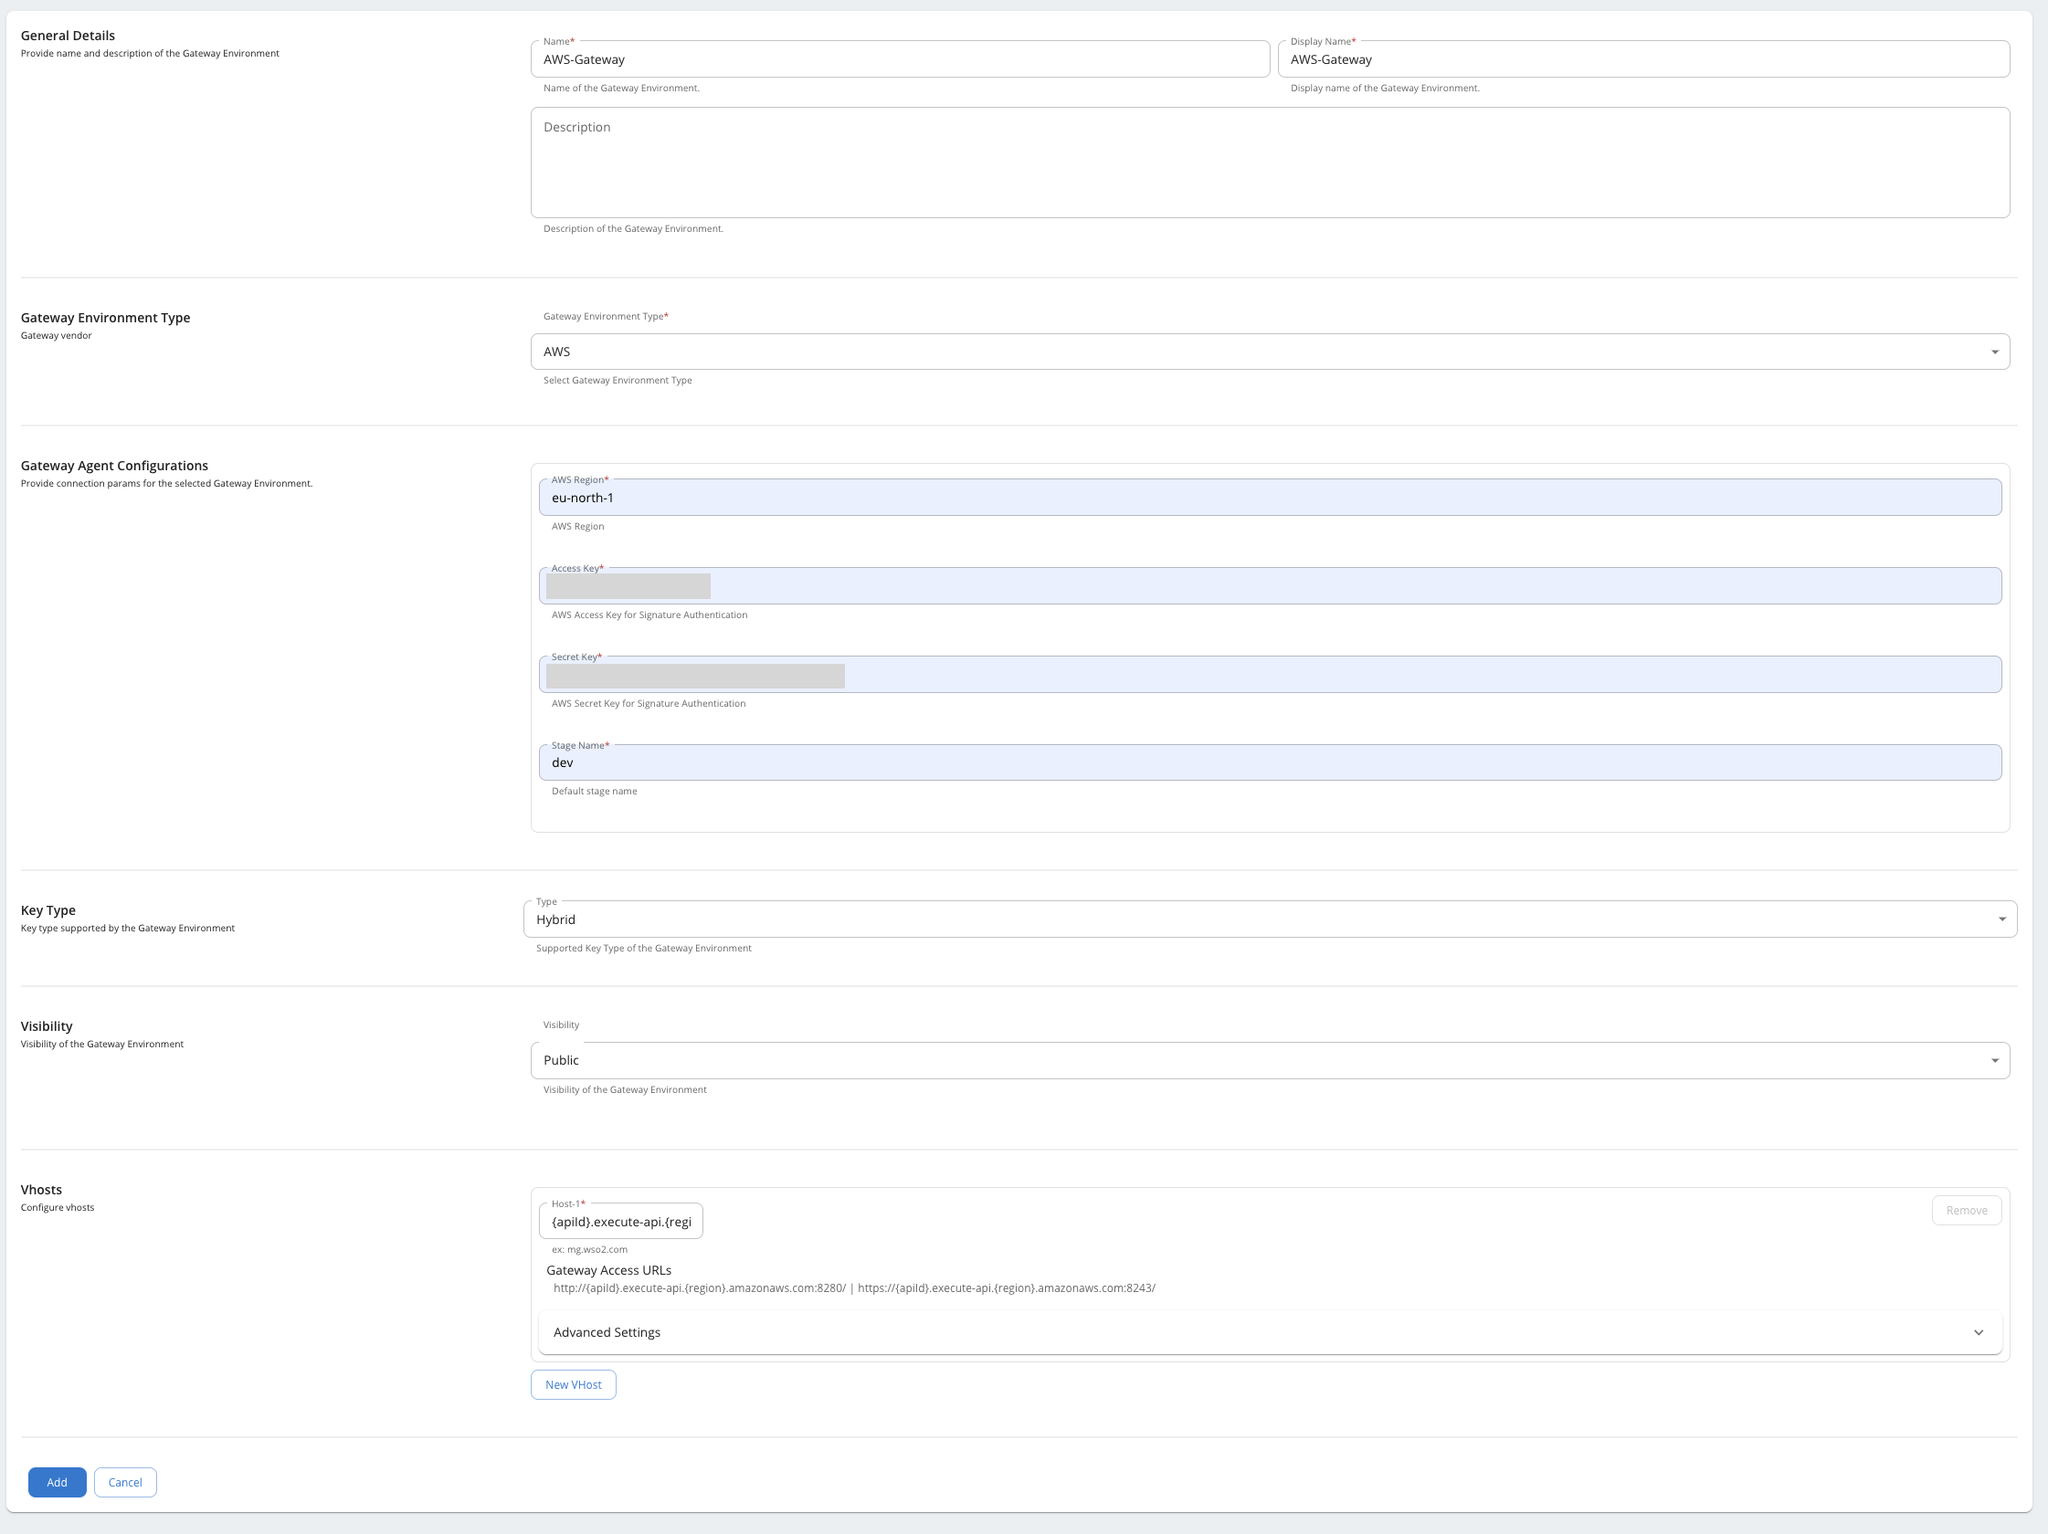
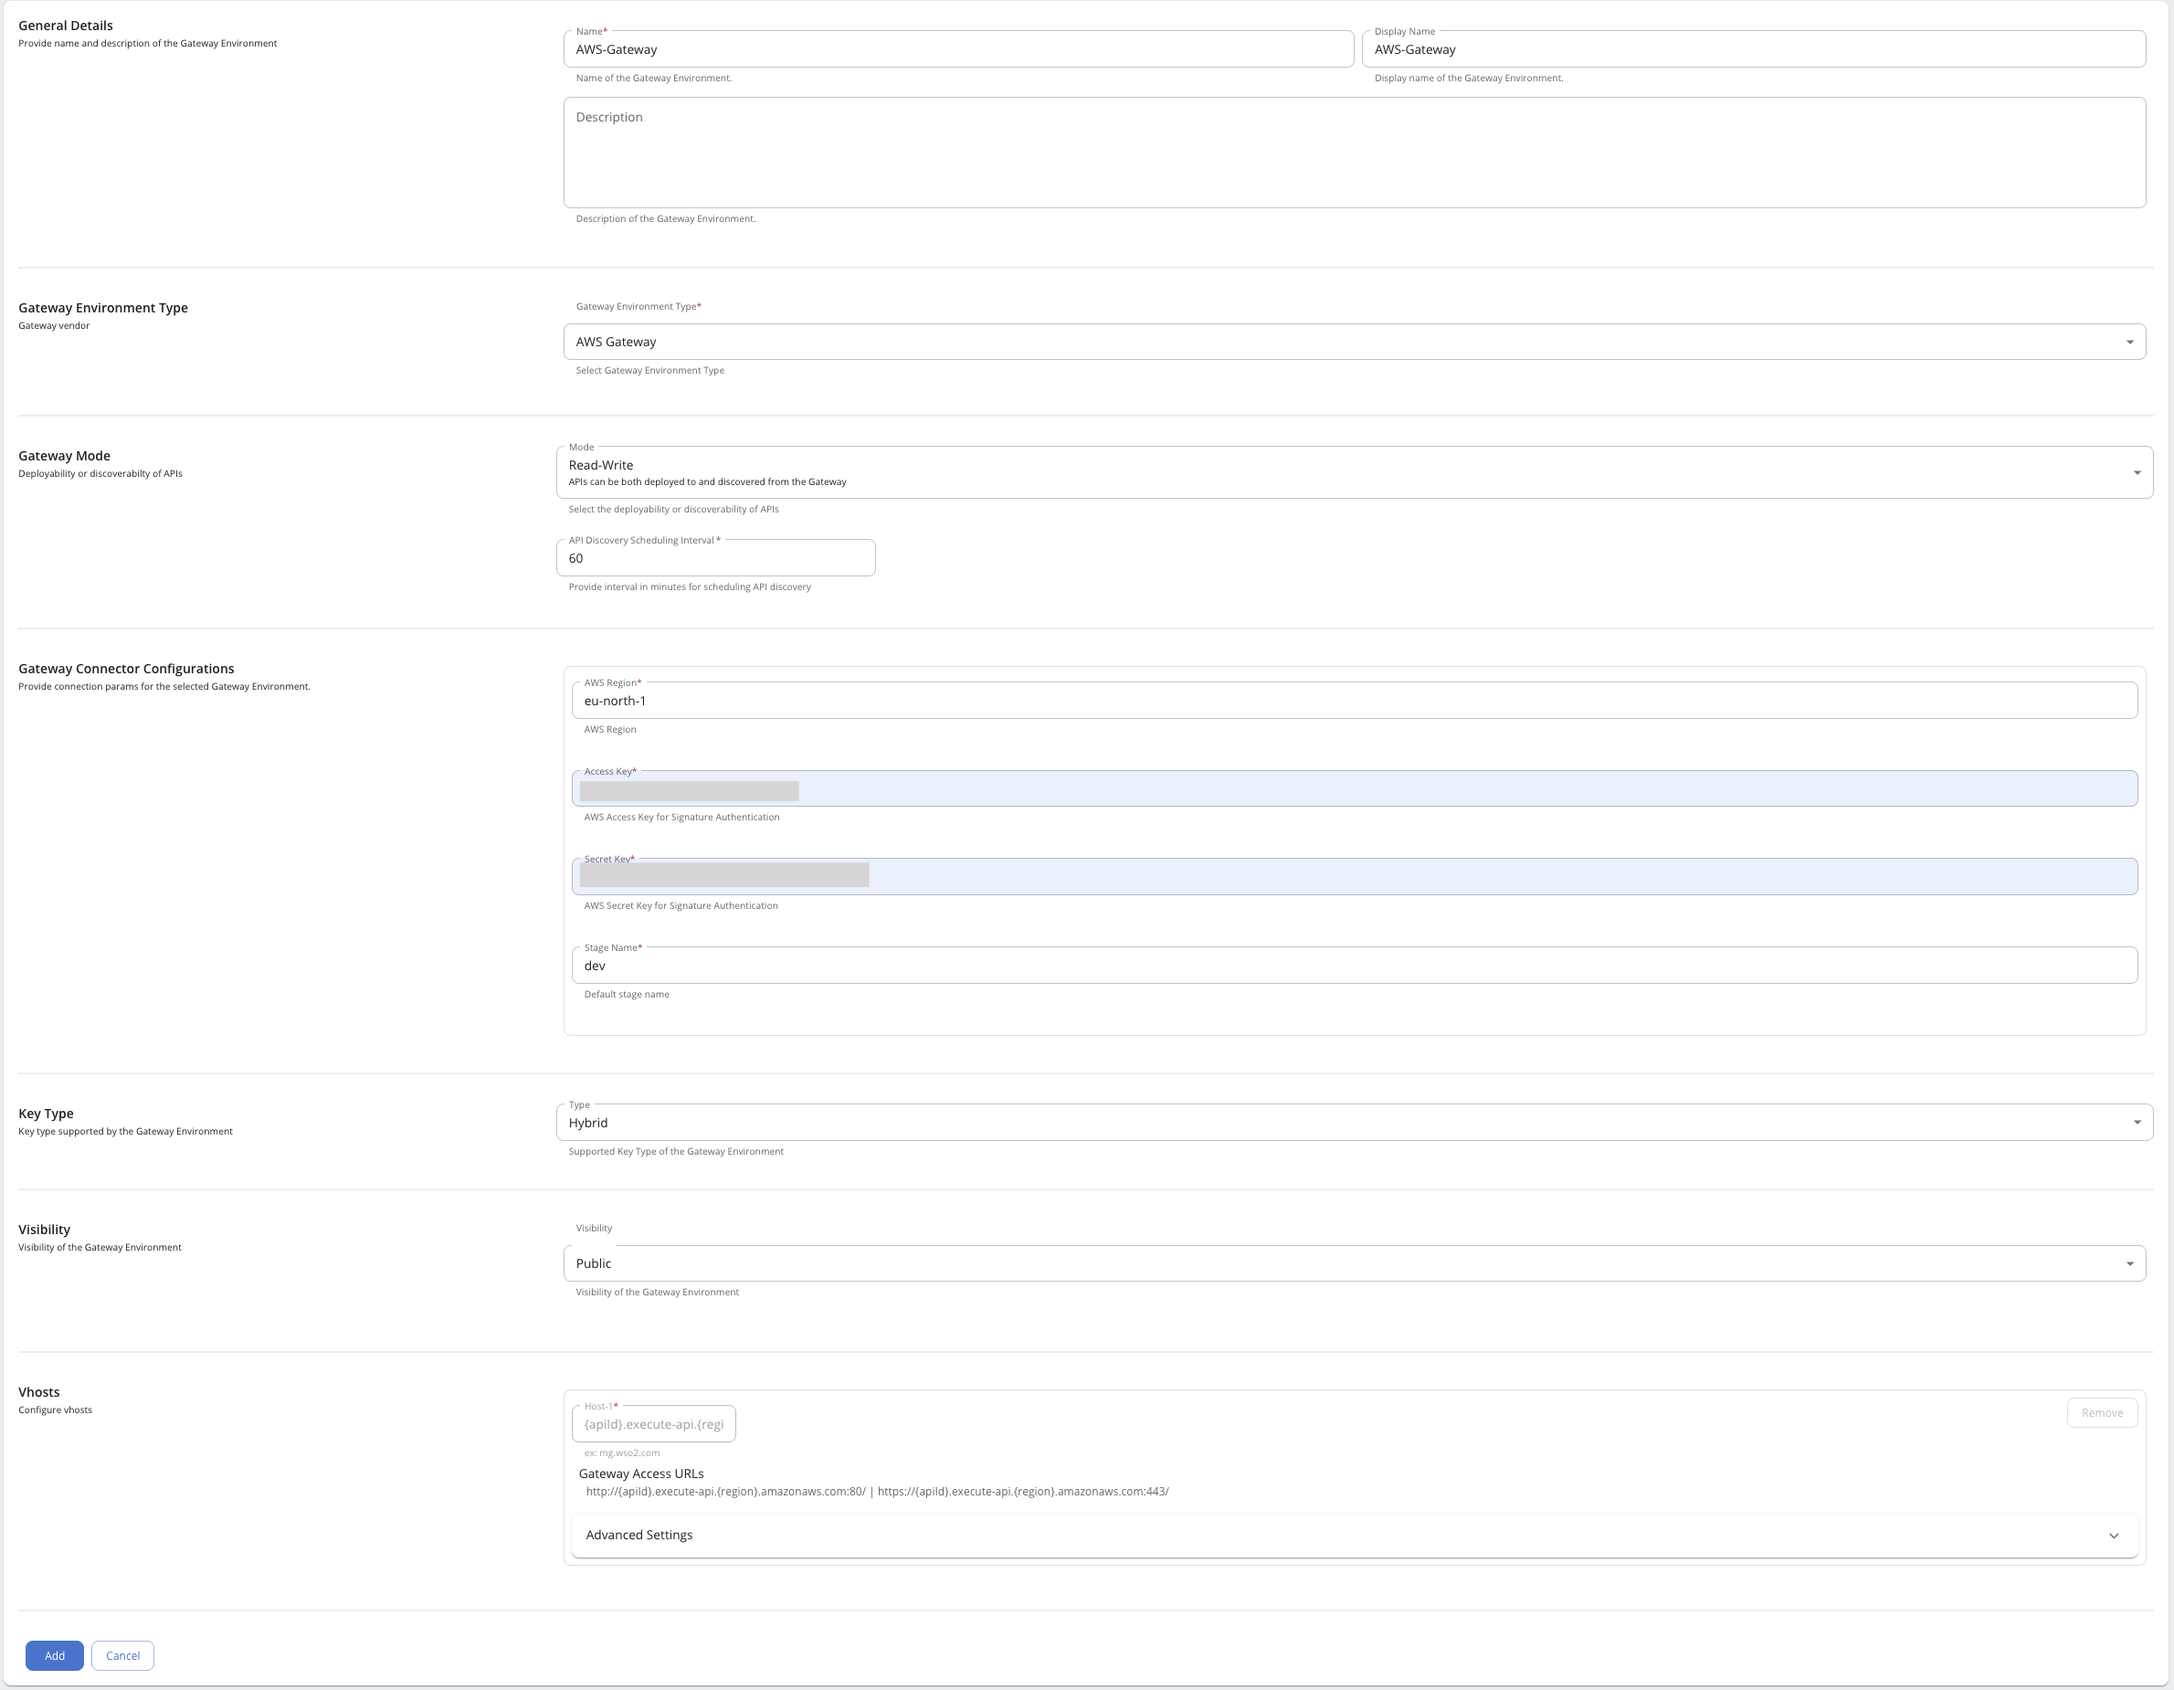
Modify AWS gateway discovery docs

diff --git a/en/docs/manage-apis/deploy-and-publish/federated-gateways/aws/discover-apis-on-aws-api-gateway.md b/en/docs/manage-apis/deploy-and-publish/federated-gateways/aws/discover-apis-on-aws-api-gateway.md
@@ -21,8 +21,8 @@ Follow the instructions given below to configure AWS API Gateway as a Federated 
 3. Create an IAM user in AWS with `AmazonAPIGatewayAdministrator` permission.
 4. Obtain an Access Key and Secret Access Key for the IAM user created in the previous step. Select **Third-party service** as the use case.
 
-   !!!note
-   Note that it is not recommended to enter root credentials of the AWS account. Instead, create a new IAM user with the required permissions and use the credentials of the IAM user. For more information see [Best practices for managing AWS access keys](https://docs.aws.amazon.com/general/latest/gr/aws-access-keys-best-practices.html).
+    !!!note
+        Note that it is not recommended to enter root credentials of the AWS account. Instead, create a new IAM user with the required permissions and use the credentials of the IAM user. For more information see [Best practices for managing AWS access keys](https://docs.aws.amazon.com/general/latest/gr/aws-access-keys-best-practices.html).
 
 ## Step 2 : Register AWS API Gateway as a Federated Gateway in WSO2 API Manager
 
@@ -35,11 +35,14 @@ Follow the instructions given below to configure AWS API Gateway as a Federated 
    `https://localhost:9443/admin`
 
 3. Add a new Gateway Environment.
-    1. Select the Gateway type as AWS and provide the relevant details in the fields accordingly.
-    2. Enter the Access Key and Secret Key obtained in Step 1 under Gateway configurations.
-    3. Select the Gateway mode as ReadOnly, or ReadWrite based on the requirement.
-    4. Provide the Schedule time for the API discovery.
+    1. Select the Gateway Type as AWS Gateway from the dropdown and provide the relevant details in the fields accordingly.
+    2. Select the Gateway Mode as Read Only, or Read Write based on the requirement.
+    3. Enter the Access Key and Secret Key obtained in Step 1 under Gateway Connector Configurations. 
+    4. Provide the scheduling interval for API discovery in minutes.
     5. Save the configurations.
+
+    !!!tip
+        If you want to disable the scheduling of API Discovery for the configured gateway environment, specify 0 as the scheduling interval.
 
    [![add aws gateway discovery environment]({{base_path}}/assets/img/deploy/add-aws-gw-environment.png){: style="width:90%"}]({{base_path}}/assets/img/deploy/add-aws-gw-discovery.png)
 
